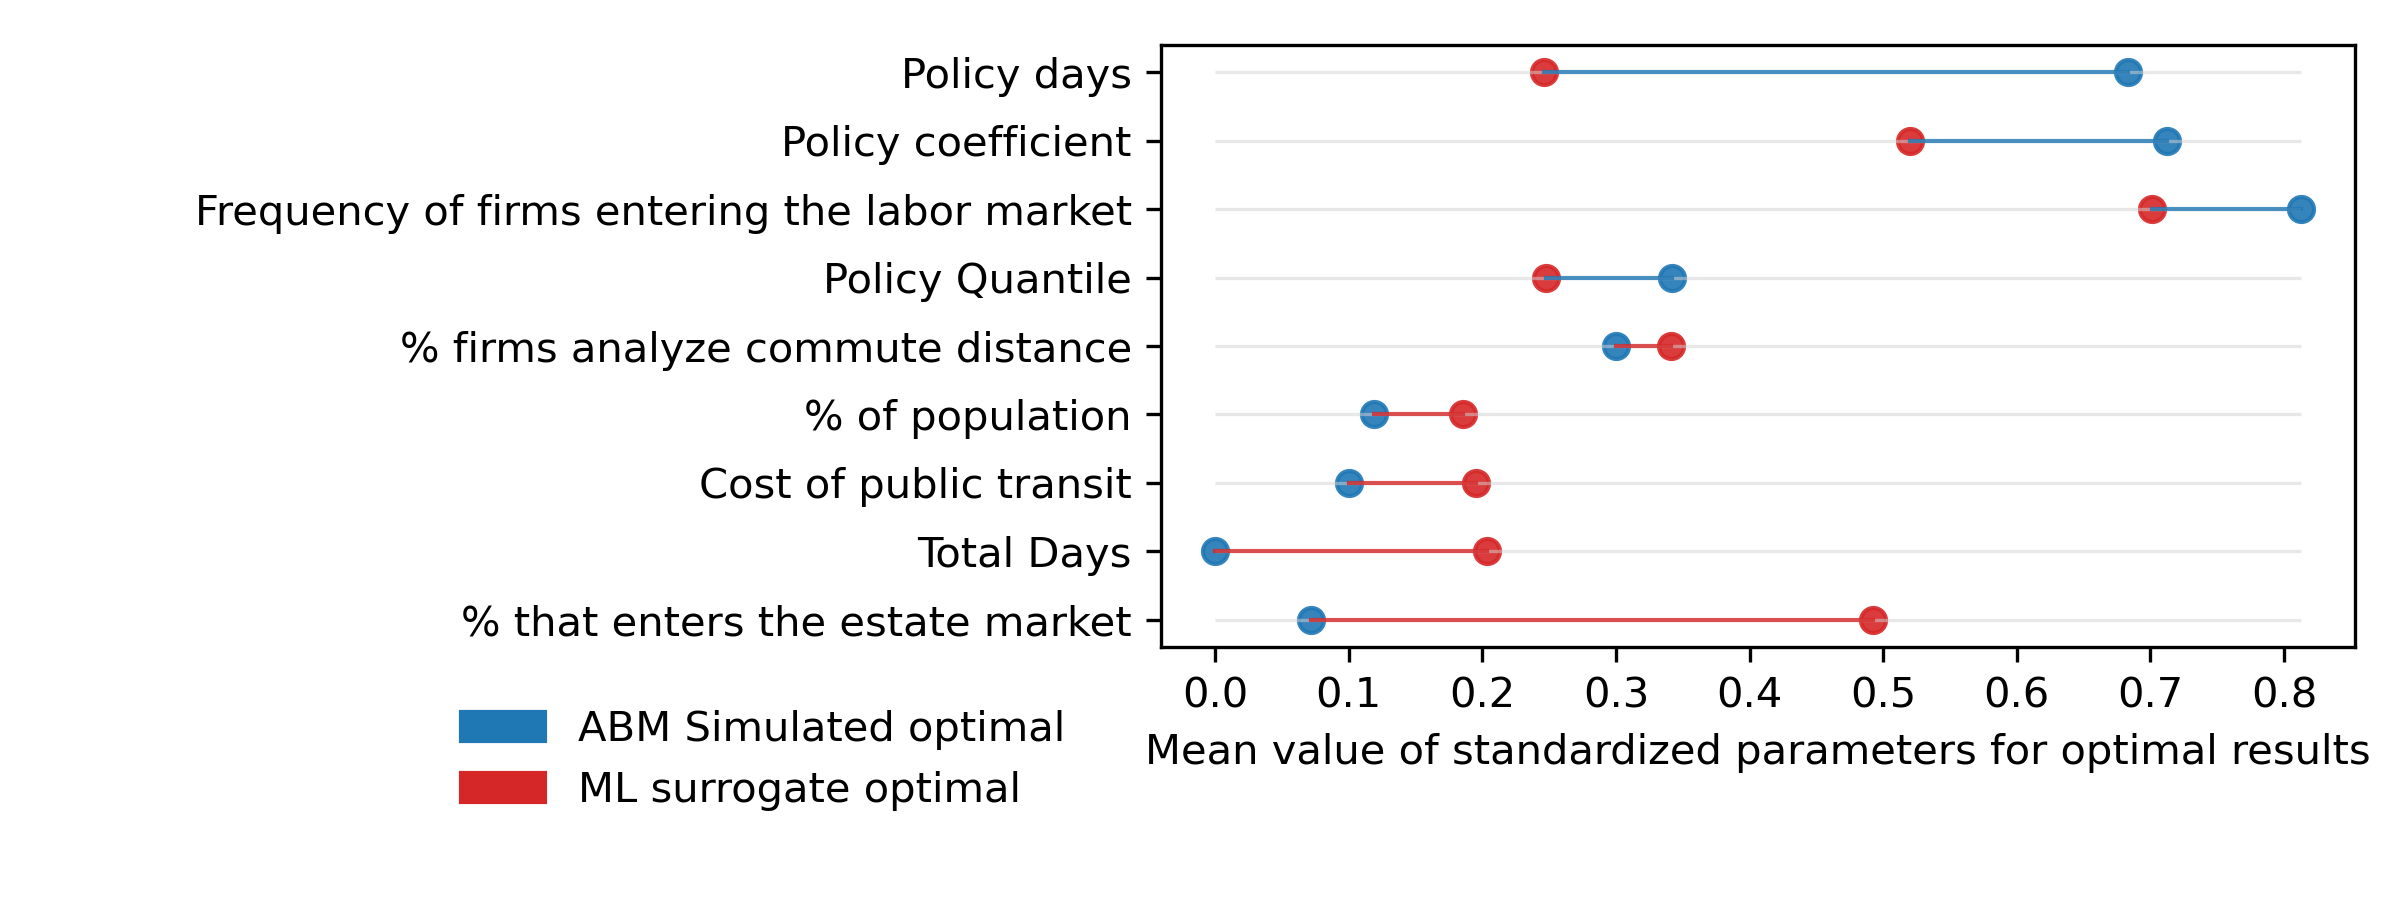
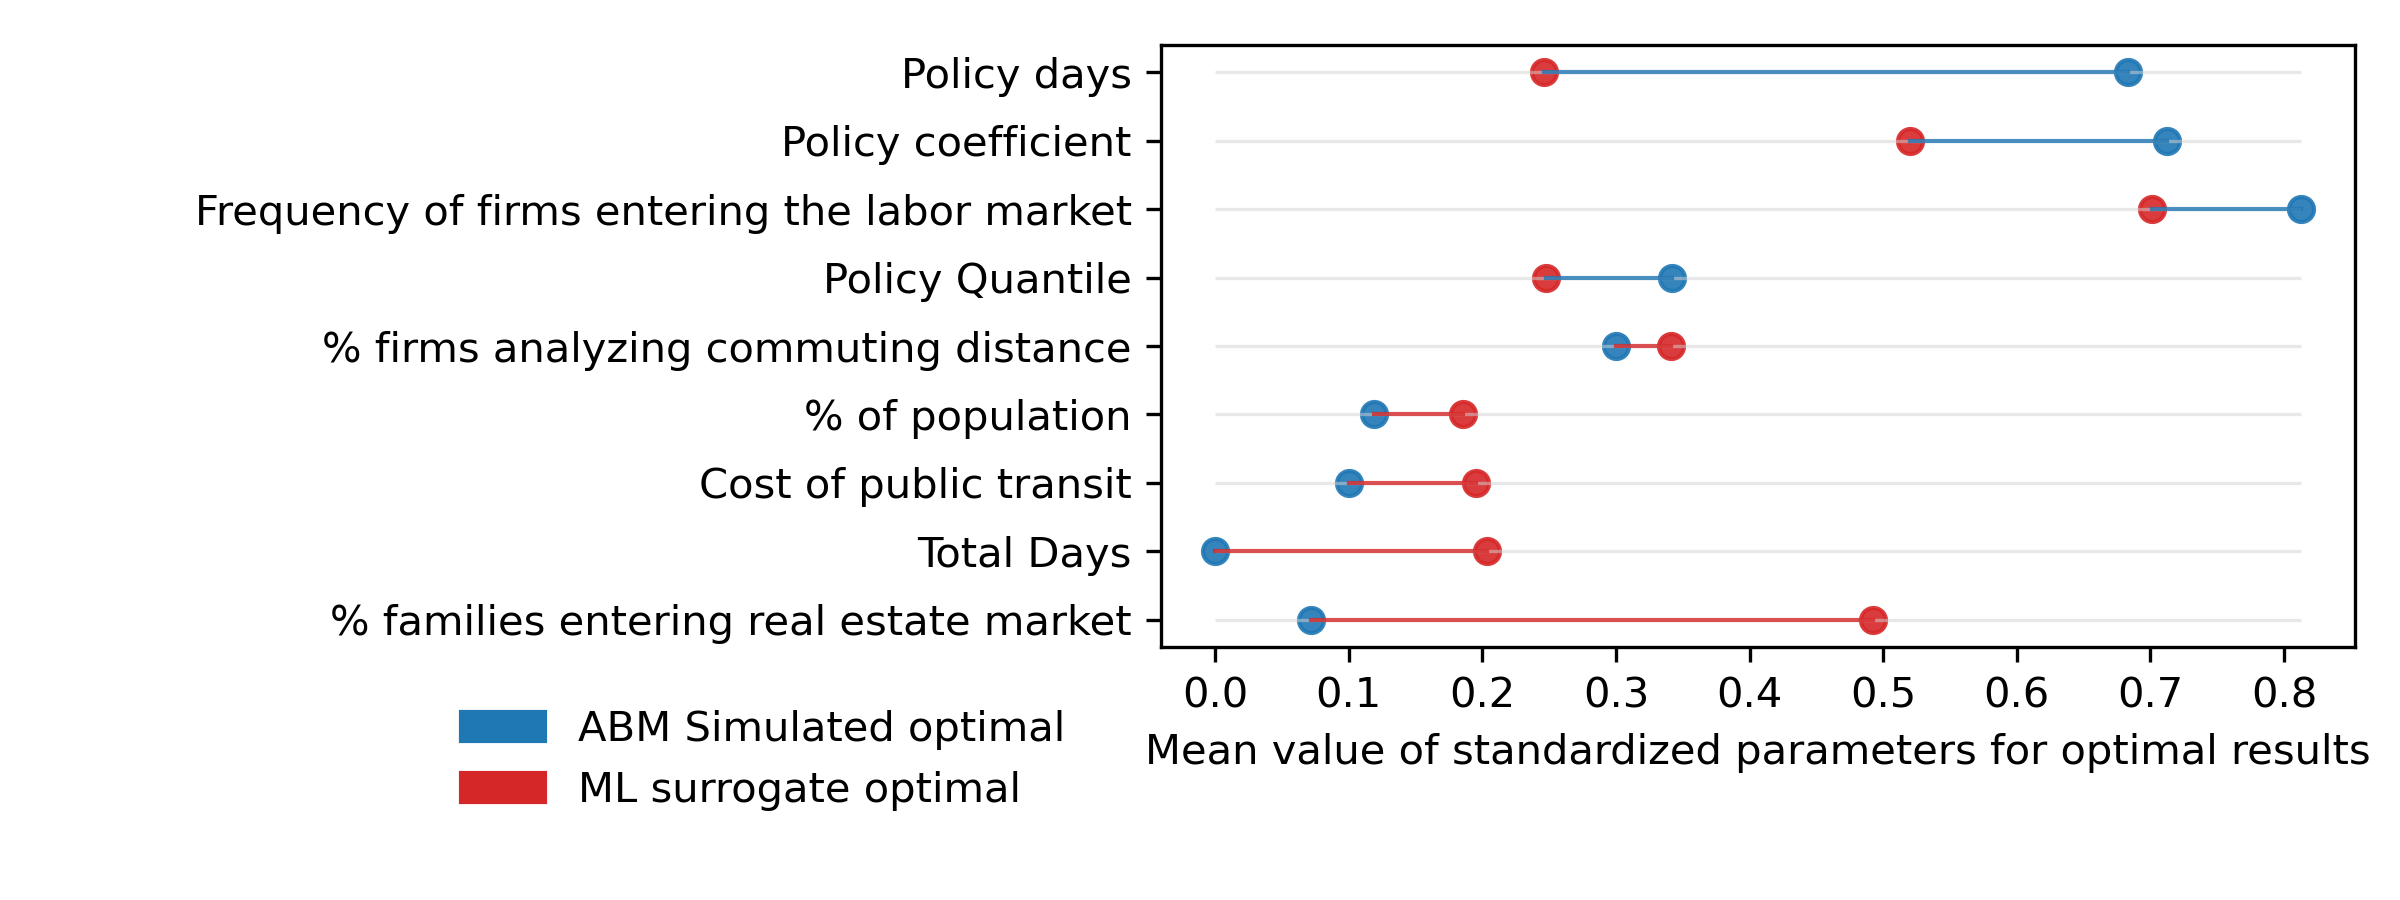
draft1

Changed region(s): [[0.125, 0.6533, 0.4062, 0.7156], [0.125, 0.3733, 0.4688, 0.4044], [0.4375, 0.6844, 0.4688, 0.7156]]

diff --git a/analysis/groups_cols.py b/analysis/groups_cols.py
@@ -160,9 +160,9 @@ abm_params_show = {'HIRING_SAMPLE_SIZE': 'Hiring sample size',
                    'MUNICIPAL_EFFICIENCY_MANAGEMENT': 'Municipal efficiency management',
                    'NEIGHBORHOOD_EFFECT': 'Neighborhood effect',
                    'OFFER_SIZE_ON_PRICE': 'Supply-demand effect on real estate prices',
-                   'PCT_DISTANCE_HIRING': '% firms analyze commute distance',
+                   'PCT_DISTANCE_HIRING': '% firms analyzing commuting distance',
                    'PERCENTAGE_ACTUAL_POP': '% of population',
-                   'PERCENTAGE_ENTERING_ESTATE_MARKET': '% that enters the estate market',
+                   'PERCENTAGE_ENTERING_ESTATE_MARKET': '% families entering real estate market',
                    'PERCENT_CONSTRUCTION_FIRMS': '% of construction firms',
                    'POLICY_COEFFICIENT': 'Policy coefficient',
                    'POLICY_DAYS': 'Policy days',
